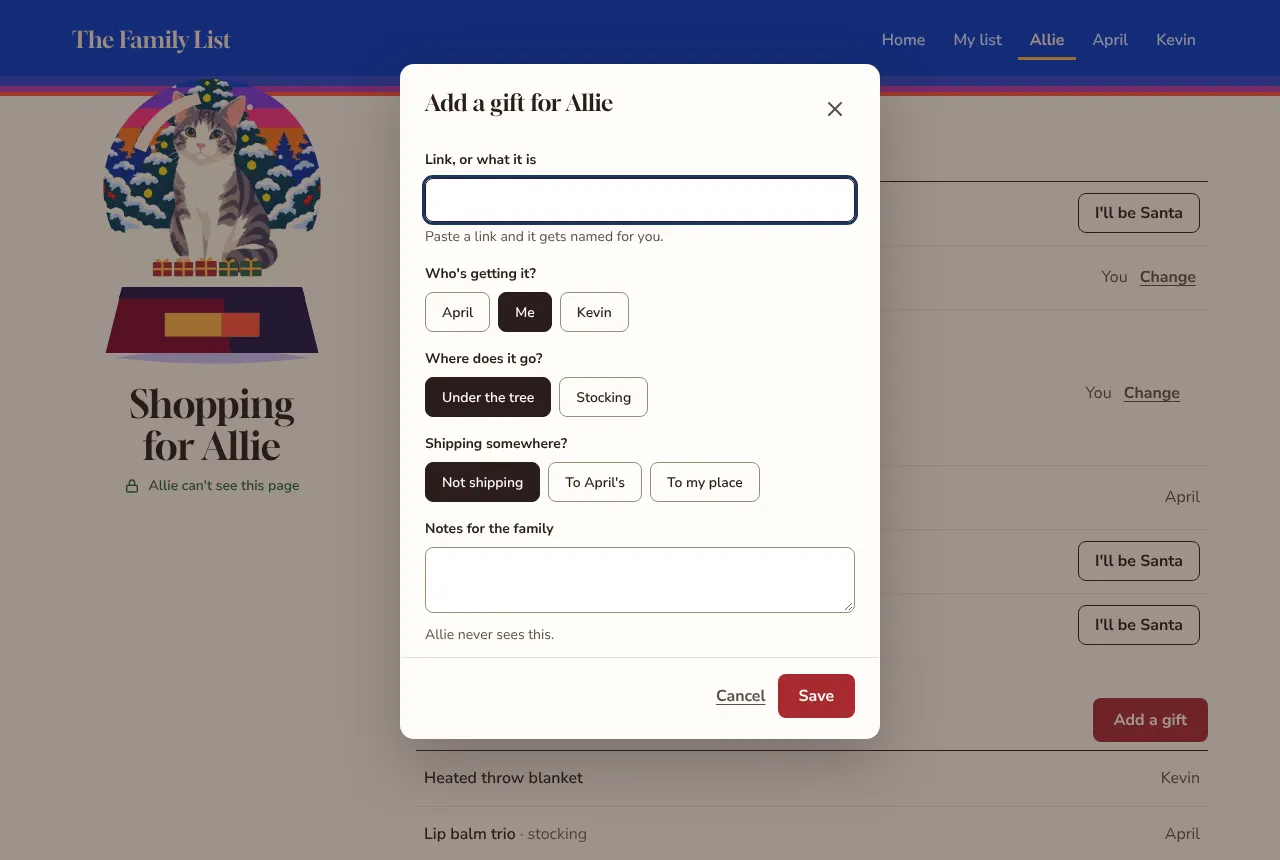
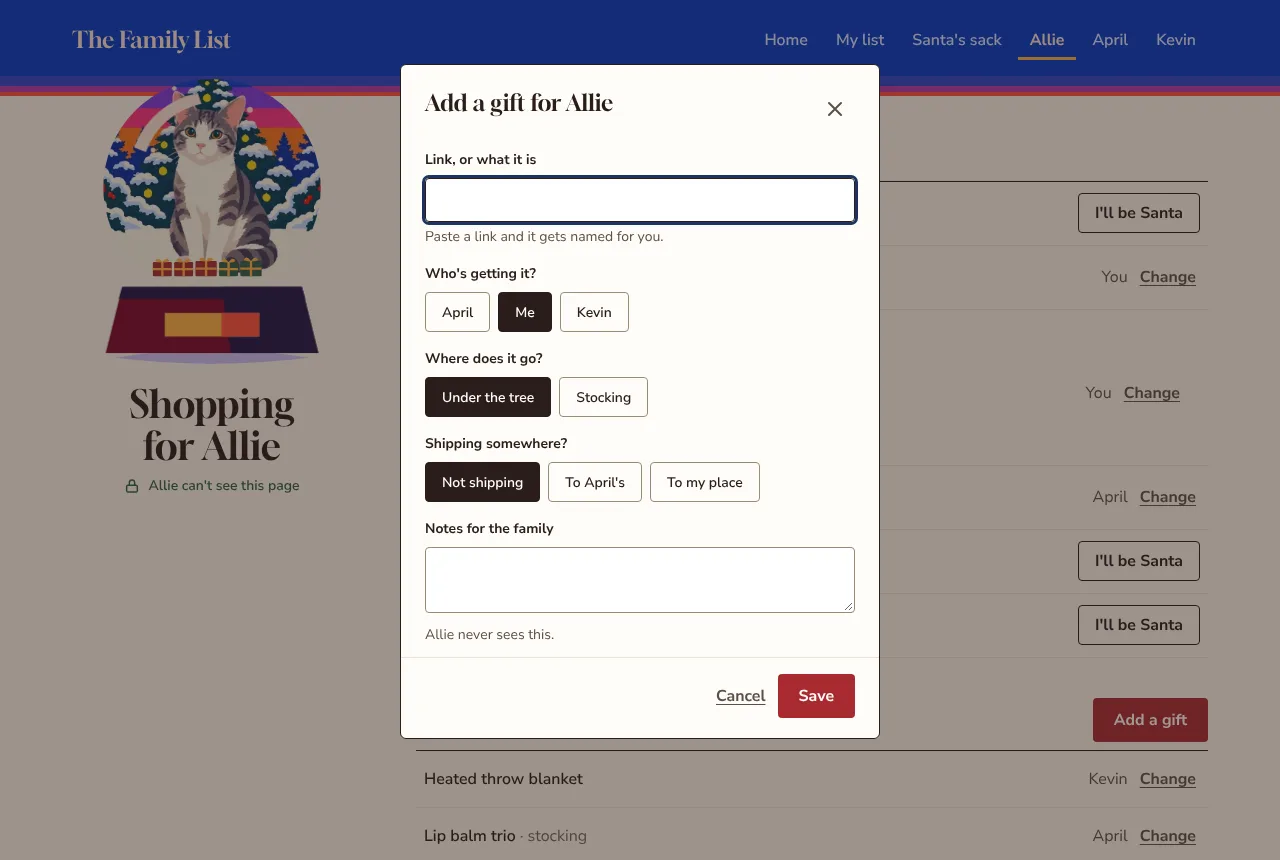
Wrap up the pre-launch build: status, decisions, design, review screenshots
All seven steps are built. Review screenshots retaken (adds Santa's sack
on Brady's desktop and April's phone), with a script to retake them.

Claude-Session: https://claude.ai/code/session_01XGi8FoTEC6fG9nvaAP17EW

diff --git a/docs/STATUS.md b/docs/STATUS.md
@@ -14,90 +14,37 @@ Update this at the end of every session. Keep it short.
 - **What the site does:**
   - **Home:** a screen print of Mom's house at dusk on Christmas Eve (flat inks, colored shadows), Santa's sleigh in a red hat flying behind the oak and chimney, "Add to my list", a snow globe per person, and "Download everything as a spreadsheet".
   - **My list:** "Gimme, gimme, gimme" (paste one link or many) and "An idea…" (a store, a brand or a hobby). Gold star your favorites. No prices, no claims shown.
-  - **Shopping for [person]:** their list, then "Surprises & stockings", then "Overheard". A wish shows "Needs Santa" or "Santa's got it"; "I'll be Santa" covers it in one tap, and "You · Change" in the row undoes it. Notes and links show under every name; rows don't open. Gifts have no status and no price. A gift can have a link, notes for the family, and "to April's" if it ships somewhere (houses, not people: Allie and Kevin share one).
+  - **Shopping for [person]:** their list, then "Surprises & stockings", then "Overheard". A wish shows "Needs Santa" or "Santa's got it"; "I'll be Santa" covers it in one tap (and asks about shipping if you usually ship), and "Change" after any giver's name changes or undoes it. Notes and links show under every name; rows don't open. Gifts have no status and no price. A gift can have a link, notes for the family, and "to April's" if it ships somewhere (houses, not people: Allie and Kevin share one).
   - **Overheard:** one line per note, with "Make it a gift", which moves the note into the gift.
+  - **Santa's sack:** everything you're getting, by person, and the boxes others are shipping to your house.
 - **Design:** the house print on Home; a dusk band and the person's globe on every other page; quiet paper rows. One type scale and weight rules in `DESIGN.md`. Mockups on the canvas linked there (round 8 is current).
 - **How the house print was made** (for future scenes, like personal globes): ChatGPT drew it from street photos plus the artist's prints; a local script reduced it to 16 flat inks, traced it to vectors and built a sky mask for the sleigh. See the 2026-10-28 entries in `DECISIONS.md`.
 - **Design round 8 (2026-10-29):** the print now carries through: a dusk band on every page, the person's globe on a shelf beside the list (it follows you on shopping pages and catches each new gift), flat ink blocks for adding, a printed gift tag for Santa's list. See `DECISIONS.md`.
 - **UX review (2026-10-29):** ten findings, all approved and built: rows show everything, undo in the row, phone rows wrap, one add-pop-up pattern, Overheard notes move into gifts, contrast, short Amazon links, feedback when adding. Details in `DECISIONS.md`.
 - **Modern web pass (2026-10-29):** checked against Google Chrome's Modern Web Guidance. Layout follows the phone's text size, pop-ups don't close on a stray click, Save buttons are never greyed out, reduced motion per animation. Details in `DECISIONS.md`.
-- **Pre-launch review (2026-11-10):** what would make December clearly better than the spreadsheets. Brady kept seven items (the build plan below) and turned down the rest, including anything for wrapping night; both lists are in `DECISIONS.md`. The new page's mockup is Round 9 on the canvas. Nothing is built yet.
+- **Pre-launch review (2026-11-10):** what would make December clearly better than the spreadsheets. Brady kept seven items and turned down the rest, including anything for wrapping night; both lists are in `DECISIONS.md`. **All seven are built** (see "Pre-launch build" below).
 - **Lessons:** Brady's click-through finds what self-testing doesn't (bookkeeping nobody would keep up). Default to fewer states and fewer fields. When a fix is clear, build it. Mockups show only two widths: check the in-between widths (tablets, large text) before building. Brady prefers one row of choices over stacked blocks.
 
 ## Next steps
 
 1. **M5, open:** the stricter rules (only real people, only known fields) are written and tested but **not published**: the live project still runs the M4 rules. Checked on the real site so far: the database refuses outsiders and self-made accounts. Brady won't do manual testing, so the plan is a one-time `gcloud auth login` in a session, letting Claude publish rules and test the real project as each person with temporary test accounts (deleted after). Not yet approved by Brady.
 2. **Then:** Brady names what else must work before the family starts. Launch (M6) only when Brady says it's finished. At launch, April bookmarks the site in Safari, not "Add to Home Screen" (BACKLOG).
-3. **Next, in a new chat:** the build plan below (from the 2026-11-10 pre-launch review). It doesn't depend on M5 and changes no database rules. Start with: "Read CLAUDE.md and docs/STATUS.md, then build the plan in STATUS, in order."
+3. **Brady: try the pre-launch build on the live site** (Santa's sack in the top bar; before/after of the new corners in the chat). Each look change in step 7 is one line to undo if it's not right.
 4. Brady's personal snow globe still needs a scene. Recipe: ask ChatGPT for the scene only (square, no glass, no base, no falling snow, flat silkscreen style, subject above the bottom quarter), then run the flat-ink pass. The scripts and how to run them are in `tools/print-pass/`.
 5. **Watch once launched:** whether April manages the email link; if not, an email-and-password option is a small job (see DECISIONS, 2026-11-10).
 
-## Build plan (2026-11-10 pre-launch review)
+## Pre-launch build (done 2026-11-10)
 
-Brady approved all seven steps. Build them in this order, one commit each, straight to `main`. Why each exists is in `DECISIONS.md` (2026-11-10 review entries). Mockup for step 4: Round 9 on the canvas in `DESIGN.md`, boards "A · Santa's sack" (desktop, Brady) and "April's phone".
+All seven steps from the pre-launch review are built and live, one commit each. Details and small calls made on the way: `DECISIONS.md` (2026-11-10 entries).
+1. **Two people on one wish:** both names show in the row, with "Two Santas on this one. One of you can tap Change, then Not getting it." The spreadsheet gets a row for each extra gift.
+2. **Change anyone's gift:** every giver's name has Change. On someone else's gift the remove button reads "Take it off" and asks you to check with them first.
+3. **List gifts can go in the stocking:** the pop-up asks "Where does it go?" for every gift; rows and the spreadsheet say "stocking".
+4. **Santa's sack** (`#/sack`, flag `santasSack`, on): what you're getting, by person, with sizes, links and where each ships; "Landing at your place" first when boxes are headed to your house; "No longer on <Name>'s list" when a wish you claimed is taken off.
+5. **Shipping in the same step as claiming:** after "I'll be Santa", people who have shipped before are asked "Shipping it to <House>?" with one Yes. Kevin, Allie and April (who order to their own houses) are never asked.
+6. **Paste from a spreadsheet:** rows copied from a sheet paste into "Gimme, gimme, gimme"; a header row is skipped.
+7. **Hard edges:** square-ish corners, an ink edge on pop-ups instead of a soft shadow, a flat "Add to my list", no hover lift. Before/after screenshots were shown in the chat.
 
-**Rules for the whole plan**
-- No change to `firestore.rules` or to the shapes in `src/data/types.ts`. If a step seems to need one, stop and ask Brady.
-- Steps 1–3 must stay tiny: only the files named. If one grows past that, stop and say so.
-- No new illustrations drawn in code, beyond the one sack picture already in `docs/design/`. No pills, cards, shadows or gradients on anything new. Reuse `Shelf`, `ListSection`, `Rows`, `Row`, `TitleNote`, `NoteLine`, `Button`, `SnowGlobe`.
-- Run user-facing words through the writing-quality skill. Keep the wording given here unless it reads wrong on the page.
-- After every step: `npm run build`, then `npm run dev:emulators` in the background and `node tests/site-flows.e2e.cjs`. Add the checks named in each step to that file (it runs as Allie, then Kevin; add an April sign-in where a step needs one: `april@example.com`). `npm run test:rules` must still pass at the end, unchanged.
-- At the end: retake the review screenshots (`docs/review/`), add `12-sack` (Brady, desktop) and `13-phone-april-sack`, update this file, `DECISIONS.md` and `DESIGN.md`, and tell Brady in plain words what changed.
-
-**Step 1 (tiny). Two people on one wish both show.** File: `src/features/shopping/ShoppingPage.tsx` (and `src/features/export/toSpreadsheet.ts`).
-- Today a "Gimme" wish row shows only `under[0]`; a second gift on the same wish is saved but invisible.
-- When `under.length > 1` on a `specific` wish: show every giver in the row's aside (each through the existing `giver()`), and one note line under the title: "Two Santas on this one. One of you can tap Change, then Not getting it."
-- Spreadsheet: add a row for each extra gift, as idea wishes already do.
-- Test: with the emulator's REST address already in the test file, add a second gift for `w-allie-1` from another giver; check both names and the note show on Allie's page for Kevin, and that Allie's own list shows nothing new.
-
-**Step 2 (tiny). Change anyone's gift.** Files: `ShoppingPage.tsx`, `GiftDialog.tsx`.
-- `giver()` shows "Change" after every giver's name, not only "You". The rules and `canChangeGift` already allow it.
-- In the pop-up, when the gift isn't yours, the remove button reads "Take it off" and the confirm reads: `Take off "<title>"? It's <Name>'s gift, so check with them first.`
-- Test: as Kevin, change the note on April's "Lip balm trio" for Allie; check the note is saved and `updatedBy` is `kevin`.
-
-**Step 3 (tiny). A gift from someone's list can go in the stocking.** Files: `GiftDialog.tsx`, `ShoppingPage.tsx`, `toSpreadsheet.ts`.
-- Show "Where does it go?" for list gifts too (remove the `!setup.fromList` condition and the `setup.fromList ? 'tree' : place` override). "I'll be Santa" still saves `tree` in one tap.
-- Show `· stocking` after the name on list rows and on gifts under an idea, as surprise rows already do.
-- Spreadsheet: for a stocking gift from the list, the Section reads "List (stocking)".
-- Test: as Allie, claim Kevin's "Wireless earbuds", then Change, Stocking, Save; check `place` is `stocking` and the row says "stocking".
-
-**Step 4 (medium). "Santa's sack": what you're getting, and what's landing at your house.** Behind a new flag `santasSack` in `src/config/features.ts`.
-- Route `#/sack` (`src/shared/router.ts`), page in `src/features/sack/SackPage.tsx`, link "Santa's sack" in `SiteHeader` right after "My list".
-- `GiftDialog` moves from `src/features/shopping/` to `src/shared/` (with the styles it uses), because features may not import each other's files. No behavior change.
-- Data, in `src/data/index.ts`, one hook `useSack()`:
-  - `landing`: gifts where `shipTo` is your house and the giver isn't you, oldest first. (Gifts for you are never readable, so none can appear.)
-  - `groups`: one per other person, in the top bar's order, each with the gifts where you're the giver, oldest first, and each gift's wish if it still exists.
-- Layout: `Shelf`, as on My list, but with the sack picture in place of a globe (your own globe belongs to My list). The picture is `docs/design/santas-sack.svg`, approved by Brady: move it into `src/features/sack/` as a small component, keep every shape exactly as drawn, and swap each fill for its theme token (all its colors are already in `theme.css`; add a token only if one is missing). No animation. Under it: the heading "Santa's sack" and the line "Everything you're getting, for everyone, and where it's headed."
-- Section order: "Landing at your place" comes first when it has gifts and is left out completely when it has none. Then "For <Name>" for each person, always shown.
-- "Landing at your place": line under the heading "Boxes the others are shipping to you." Each row: the gift's name, then under it "From <Giver>, for <Recipient>". No buttons.
-- "For <Name>": a small `SnowGlobe` (size 56, their scene, no gifts) beside the heading, and a quiet link "<Name>'s page" to their shopping page. Each row:
-  - Title, then `· stocking` and `· to <House>` as on shopping pages.
-  - Under it, in this order where they exist: `For "<idea wish title>"` when the wish is an idea; the wish's notes; your own gift notes; the store link (the gift's link, else the wish's).
-  - If the gift has a `wishItemId` but the wish is gone: plain text "No longer on <Name>'s list". Text, not a pill.
-  - "Change" opens `GiftDialog` for that gift.
-  - No gifts for someone: "Nothing yet." and a link "See <Name>'s list".
-- Phones and large text (under 960px): no large picture, as shopping pages drop the big globe; the heading, then the sections. Rows wrap like the shopping rows. Check at 390px with larger text, and at the in-between widths (700–1000px).
-- Tests: as Brady (sign in `brady@example.com`): "Gooseneck pour-over kettle" is under "For Allie" with "to April's" and "Matte black"; no "Landing" heading. As April: "Landing at your place" lists the kettle as "From Brady, for Allie". As Kevin: the page has no trace of gifts for Kevin. Then, as Allie, take "Gooseneck pour-over kettle" off her list and check Brady's sack says "No longer on Allie's list".
-
-**Step 5 (small). Shipping in the same step as claiming.** Files: `src/data/index.ts`, `ShoppingPage.tsx`.
-- Shipping is mostly Brady's: the others order to their own house. So the site only asks people who have shipped before.
-- New helper `usualShipTo(recipient)`: the `shipTo` of your most recent gift that has one and isn't the recipient's house, preferring gifts for people in the recipient's house, else any. Nothing stored anywhere new.
-- Right after "I'll be Santa", if `usualShipTo` gives a house, the row shows under the name: "Shipping it to <House>?" with one quiet button "Yes". Yes saves `shipTo`. The question goes away on Yes, on leaving the page, or when another row is claimed. No "No" button.
-- Never preselect shipping inside the pop-up.
-- Tests: as Brady (who has shipped gifts in the sample data), claim Allie's "Platform clogs": the question names "April's"; Yes saves `shipTo: april`. As Kevin (no shipped gifts), claim something: no question.
-
-**Step 6 (small). Paste rows copied from a spreadsheet.** File: `src/features/my-list/parsePaste.ts` only.
-- A line with tabs is a spreadsheet row: split on tabs, drop empty cells. The link is the first cell that is a link; the name is the first cell that isn't; every other cell joins the note with ", ".
-- Skip a first line whose cells are all header words (item, name, gift, what, link, url, price, notes, note, size, color, store).
-- Lines without tabs behave exactly as today.
-- Test: paste three tabbed rows (one header, one with a link, one without) into "Gimme, gimme, gimme"; check two wishes with the right names, links and notes.
-
-**Step 7 (small, CSS only). Take the last generic-web-app looks out.** From a review of every page for template-looking design. The print's language is flat ink and hard edges; these are the pieces that don't speak it. Show Brady before and after screenshots; each is one line to undo.
-- Pop-ups: no soft drop shadow (`--shadow-dialog: none`), a 1.5px ink edge, and square-ish corners (`--radius-lg: 6px`).
-- Buttons and text boxes: `--radius-md: 4px`, matching My list's ink blocks.
-- Status pills ("Needs Santa", "Santa's got it") and the "Give it a gold star" button: `border-radius: var(--radius-sm)` instead of fully round.
-- Home: "Add to my list" becomes a flat block (`--radius-sm`, no bottom shadow), and the globes no longer lift on hover.
-- The sign-in page picks up the same corners through the tokens; nothing else about it changes (its design round is parked). No wording changes: the review found none needed.
+Checked: the site click-through (`tests/site-flows.e2e.cjs`, now 35 checks, as Allie, Kevin, Brady and April) and the 20 rule checks pass; no change to `firestore.rules` or the data shapes, so nothing to publish. Review screenshots retaken, with `12-sack` and `13-phone-april-sack`.
 
 ## Milestones to v1
 

diff --git a/docs/DESIGN.md b/docs/DESIGN.md
@@ -10,12 +10,12 @@ Round-one plaid "Christmas morning" pages were busy. The direction now:
 - **One main action per screen** in plaid red; everything else is an outlined or underlined button. Extra options open on click ("Someone else", "Change").
 - **The print carries through (Round 8, concept A).** Every page but Home opens with a band of the print's dusk sky (cobalt, then violet, magenta and orange in flat pulls). Home and every other page share one paper. The person's snow globe sits on a shelf beside the list on wide screens, overlapping the band a little; on shopping pages it stays in view while you scroll, and each new gift drops into it. Under 960px the shopping globe becomes a slim bar at the top.
 - **My list's two add buttons are flat blocks of ink** (red for "Gimme, gimme, gimme", cobalt for "An idea…"), no shadows. Side by side on laptops (1190px and wider), icon above the words, so "Gimme, gimme, gimme" stays on one line; stacked on narrower screens, where two can't fit it. Santa's list is a flat printed gift tag on a gold string.
-- **One festive moment per page.** Home: a screen print of the family house at dusk on Christmas Eve (flat inks, colored shadows), with the headline on its sky. Shopping pages: the person's snow globe, with gifts piling up at the bottom (one wrapped present per gift). Your own page: your globe just snows.
-- **Quiet rows.** Status pill, name, who; notes and links in small type under the name, always in view (nothing opens). Your own gifts show "Change" in the row. On phones the name gets the whole width and status and who go on the line under it. Two states for a wish: "Needs Santa" (grey, dashed circle) and "Santa's got it" (green, full circle), shape and word with the color. Gifts themselves have no status: if it's on the page, someone's getting it. Nothing else in a row gets color.
+- **One festive moment per page.** Home: a screen print of the family house at dusk on Christmas Eve (flat inks, colored shadows), with the headline on its sky. Shopping pages: the person's snow globe, with gifts piling up at the bottom (one wrapped present per gift). Your own page: your globe just snows. Santa's sack: a flat-ink sack full of presents (the approved drawing, colors from the theme), with each person's small globe beside their heading.
+- **Quiet rows.** Status pill, name, who; notes and links in small type under the name, always in view (nothing opens). Every gift shows "Change" after the giver's name (anyone can fix any gift they can see); if two people claimed one wish, both names show, one per line. On phones the name gets the whole width and status and who go on the line under it. Two states for a wish: "Needs Santa" (grey, dashed circle) and "Santa's got it" (green, full circle), shape and word with the color. Gifts themselves have no status: if it's on the page, someone's getting it. Nothing else in a row gets color.
 - **The fun is in small touches:** the gift pile, the wording ("Gimme, gimme, gimme"), the Naughty/Nice tag. No stamps, plaid strips, emoji or handwriting fonts.
 - **Quiet nods** to the family's favorite Christmas movies remain welcome, small enough that only the family notices.
 
-Mockups (private canvas, Brady's account): https://claude.ai/artifact/BkG8hdVD8inaaT2mk3BX2B. Round 8, concept A, is what's built (rounds 4 and 5 still show the row and pop-up basics); Round 8's concept B was not chosen. Round 9, concept A ("Santa's sack", by person, with April's phone view) is approved and not yet built: see the build plan in `STATUS.md`. The canvas also holds a private note with family details; those stay out of this public repo.
+Mockups (private canvas, Brady's account): https://claude.ai/artifact/BkG8hdVD8inaaT2mk3BX2B. Round 8, concept A, is what's built (rounds 4 and 5 still show the row and pop-up basics); Round 8's concept B was not chosen. Round 9, concept A ("Santa's sack", by person, with April's phone view) is built (2026-11-10). The canvas also holds a private note with family details; those stay out of this public repo.
 
 ## Tokens and fonts
 
@@ -24,6 +24,7 @@ Mockups (private canvas, Brady's account): https://claude.ai/artifact/BkG8hdVD8i
 - Display: Gloock. Body: Nunito Sans. No handwriting fonts.
 - Contrast: text at least 4.5:1 on paper (`--ink-faint` is the lightest text allowed); text-box edges at least 3:1 (`--field-border`).
 - One type scale, 13 14 16 18 24 30 40 px (tokens `--text-xs` to `--text-3xl`). Weights: 400 for secondary text, 600 for names and labels, 700 for buttons and pills. No other sizes or weights in components.
+- Shapes: the print's hard edges. Corners are 4px (buttons, text boxes, status labels, Home's button) and 6px (pop-ups). Pop-ups have a 1.5px ink edge and no shadow. Nothing lifts on hover.
 - Motion: at most one slow ambient animation per screen (falling snow), plus one moment of feedback: a new gift dropping into the globe. Each animation turns itself off when the device asks for reduced motion (no global rule).
 - Sizes in rem, breakpoints in em, components laid out by their own room (container queries), so the phone's text-size setting scales the site without breaking it.
 

diff --git a/docs/review/README.md b/docs/review/README.md
@@ -1,6 +1,6 @@
-# Review pack (2026-11-10)
+# Review pack (2026-11-10, retaken after the pre-launch build)
 
-Screenshots of the live site's code with made-up sample data, so a review can start from evidence instead of driving a browser. Taken on the local emulator (`npm run dev:emulators`, which loads the same sample data). Retake them if the pages change.
+Screenshots of the live site's code with made-up sample data, so a review can start from evidence instead of driving a browser. Taken on the local emulator (`npm run dev:emulators`, which loads the same sample data). Retake them if the pages change: restart the emulators for fresh data, then `node tools/review/take-screenshots.cjs <folder>` and convert the PNGs to WebP.
 
 | File | Who's looking | What it shows |
 |---|---|---|
@@ -9,10 +9,12 @@ Screenshots of the live site's code with made-up sample data, so a review can st
 | `03-my-list` | Brady | Two add blocks, "Dear Santa" list with gold stars, Santa's list tag. No claims ever shown here |
 | `04-add-gimme` | Brady | Adding something specific: paste one link or many, or describe it |
 | `05-add-idea` | Brady | Adding an idea: a store, brand or hobby; several people can each add a gift under it |
-| `06-shopping-allie` | Brady | Allie's list with Needs Santa / Santa's got it, "Surprises & stockings", "Overheard" |
+| `06-shopping-allie` | Brady | Allie's list with Needs Santa / Santa's got it, "Surprises & stockings", "Overheard". Every gift has Change |
 | `07-add-gift` | Brady | The gift pop-up: link or name, who's getting it, tree or stocking, shipping, notes |
 | `08-shopping-april` | Brady | A short list, as April's usually is |
 | `09`–`11-phone-april-*` | April | iPhone at larger text: Home, her own list, shopping for Allie |
+| `12-sack` | Brady | Santa's sack: what he's getting, by person, with sizes, links and where each ships |
+| `13-phone-april-sack` | April | Santa's sack on her phone: "Landing at your place" first (boxes Brady is shipping to her), then by person |
 
 ## How it works, in brief
 
@@ -20,4 +22,5 @@ Screenshots of the live site's code with made-up sample data, so a review can st
 - **Gifts** are for someone else: claimed from their list ("I'll be Santa", one tap) or added as a surprise. A gift has who's getting it, under the tree or in the stocking, optional shipping to a house (houses, not people), a link and notes. No price, no bought/wrapped status (both removed on purpose: see DECISIONS).
 - **Overheard** notes are about someone; "Make it a gift" turns one into a gift.
 - **What you never see:** gifts, claims or notes about yourself. Enforced by `firestore.rules`.
-- **Not built:** anything that pulls together what *you* are getting for everyone ("What I'm getting", BACKLOG), anything for wrapping night or Christmas morning, prices.
+- **Santa's sack** pulls together what *you* are getting for everyone, and what's being shipped to your house.
+- **Not built:** anything for wrapping night or Christmas morning, prices.

diff --git a/docs/DECISIONS.md b/docs/DECISIONS.md
@@ -143,3 +143,12 @@ Newest at the bottom. Each entry: what we decided, and why.
 - **"New since you looked" markers.** The 2026-10-26 decision stands. The one costly case, a wish removed after you claimed it, shows in Santa's sack.
 - **Prices and link auto-fill.** The price is one click away on the link; auto-fill needs a separate service that Amazon blocks. Cut, not parked.
 - **A password for April now.** Stays the fallback (see the sign-in entry above), with one more reason to watch: Safari on iPhone clears a site's saved sign-in after about a week without a visit.
+
+**2026-11-10: Building the pre-launch plan: small calls made on the way.** All seven steps are built as specified; these are the details the plan left open.
+- **Two Santas on one wish:** the names stack, one per line, each with its own Change. Each gift's note shows under the wish, and "to April's" shows once even if both ship there.
+- **Santa's sack is switched on** (`santasSack: true`), since the site isn't launched yet. Its globe sits beside each "For <Name>" heading through a new `lead` slot on `ListSection`. Under 960px the sack picture is left out, as the plan says, and the heading and its line sit centered, as on My list.
+- **The gift pop-up lives in `src/shared/GiftDialog.tsx`** with its own small style file, so shopping pages and Santa's sack share it.
+- **"Shipping it to April's?"** goes away once the gift has shipping, however it was set (Yes, or the pop-up). "Most recent" means the gift added most recently.
+- **Pasted spreadsheet rows:** a header row is skipped only when it's the first line and has tabs; cells are trimmed, and a row that's only a link is named from the link.
+- **Step 7:** `--plaid-red-shadow` is no longer used (Home's button lost its shadow); kept in the theme so the change is one line to undo.
+- **Review screenshots** are now taken by `tools/review/take-screenshots.cjs`, so the next retake is one command.
